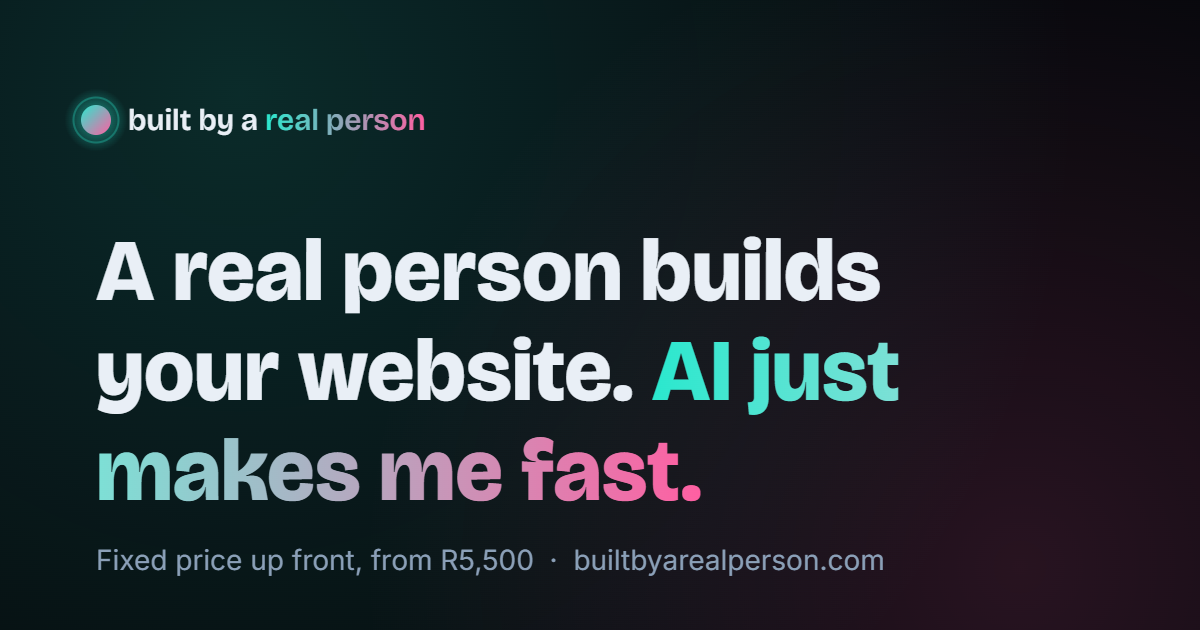
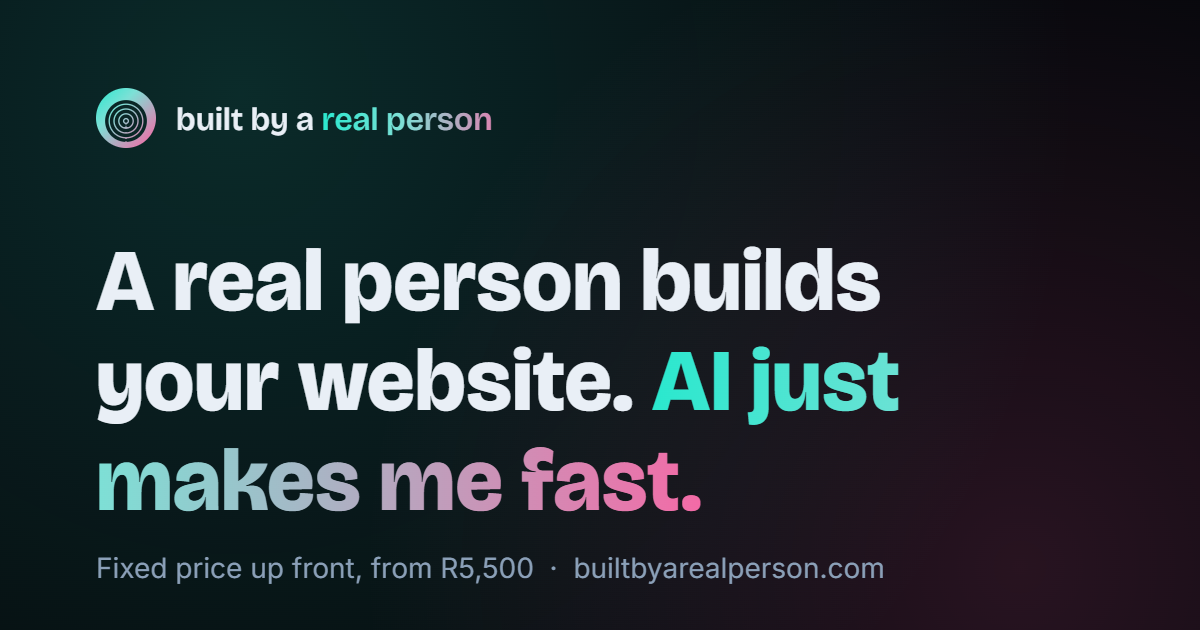
Put a fingerprint in the mark
The plain gradient dot worked as an icon but was thin as a logo. The mark
is now concentric ridges knocked out of the disc: a fingerprint. One
specific human made this — the argument the business rests on, and the
opposite of generic AI output.

Not the robot-with-a-human-head that was floated. That image depicts half
machine, half person, which is precisely the blur the site spends a whole
section arguing against, and a logo is the one image that goes everywhere.

Two things this needed that are easy to get wrong:

The mark renders on its own transparent canvas and is then composited.
Knocking the ridges out directly onto the target erases the background
behind them too, punching holes through to whatever sits underneath —
which is exactly what the first attempt did.

There is a detail threshold. Below about 46px across the ridges close up
into a smudge, so the mark falls back to the plain gradient dot the site
header already animates. The favicon and the share card wordmark are
drawn above that threshold rather than shrunk from the 512px art.

Every surface regenerated so nothing is left on the old dot: favicon,
icon, apple icon, share card, both wordmark lockups and the Bookings
upload.

Claude-Session: https://claude.ai/code/session_01BhUtcwed85MA7VfwKjQKkA

diff --git a/public/brand/README.md b/public/brand/README.md
@@ -19,3 +19,19 @@ The light and dark versions are not the same file recoloured by accident: the
 site's turquoise `#2ae8ce` is tuned for a near-black background and is far too
 pale to read on white. The light version uses `#0f9e8c`, the same turquoise the
 estimate emails already use on their white background.
+
+## The mark
+
+Concentric ridges knocked out of the gradient disc: a fingerprint. One specific
+human made this, which is the argument the whole business rests on and the exact
+opposite of generic AI output.
+
+**Detail threshold.** Below about 46px across, the ridges close up into a smudge,
+so the mark drops them and falls back to the plain gradient dot the site header
+already animates. That is why the favicon and the share card wordmark are drawn
+at sizes above the threshold rather than shrunk down from the 512px version —
+shrinking produces the smudge the threshold exists to avoid.
+
+**The mark renders on its own transparent canvas and is then composited.**
+Knocking the ridges out directly onto a target erases the background behind them
+as well, punching holes through to whatever sits underneath.
